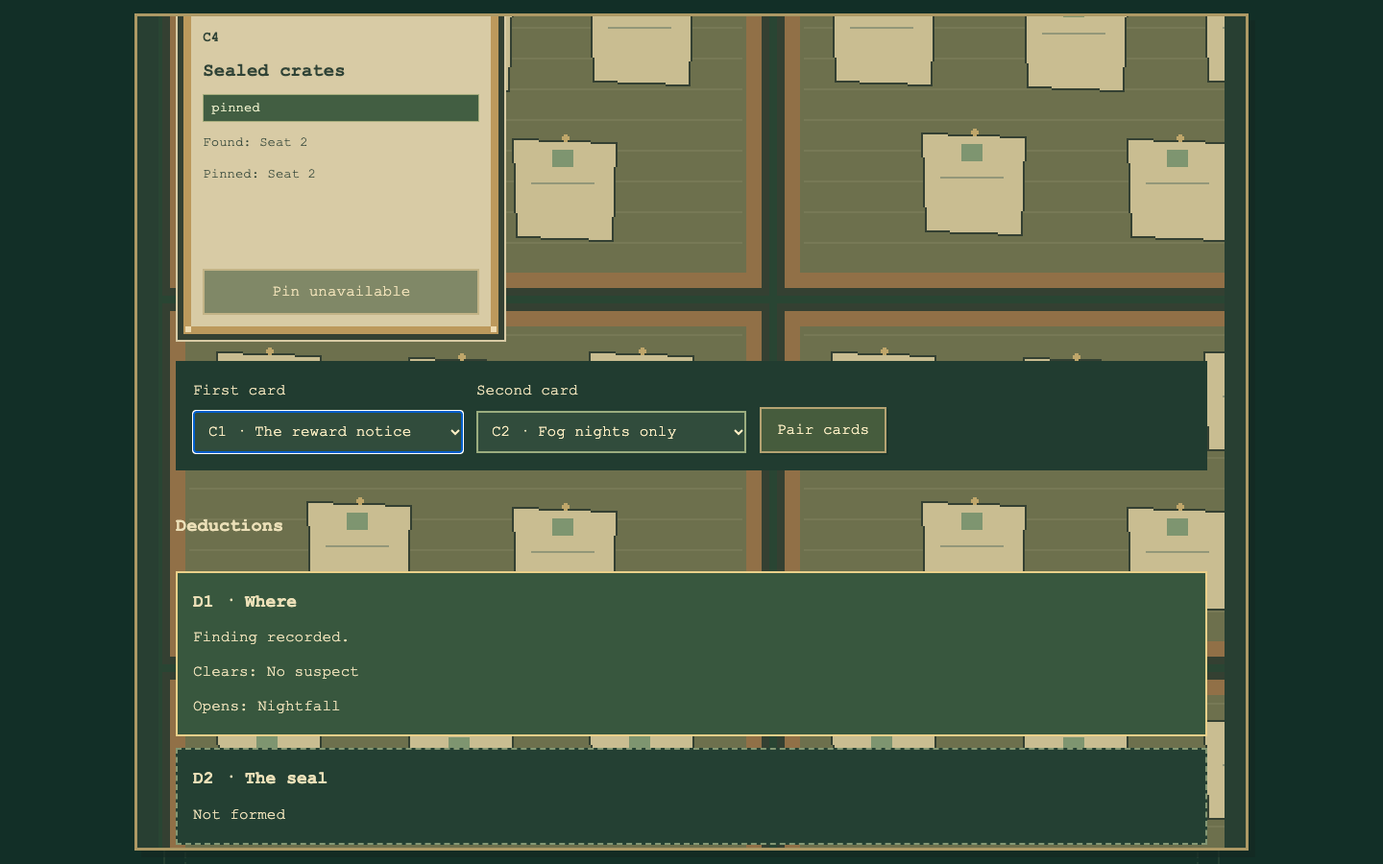
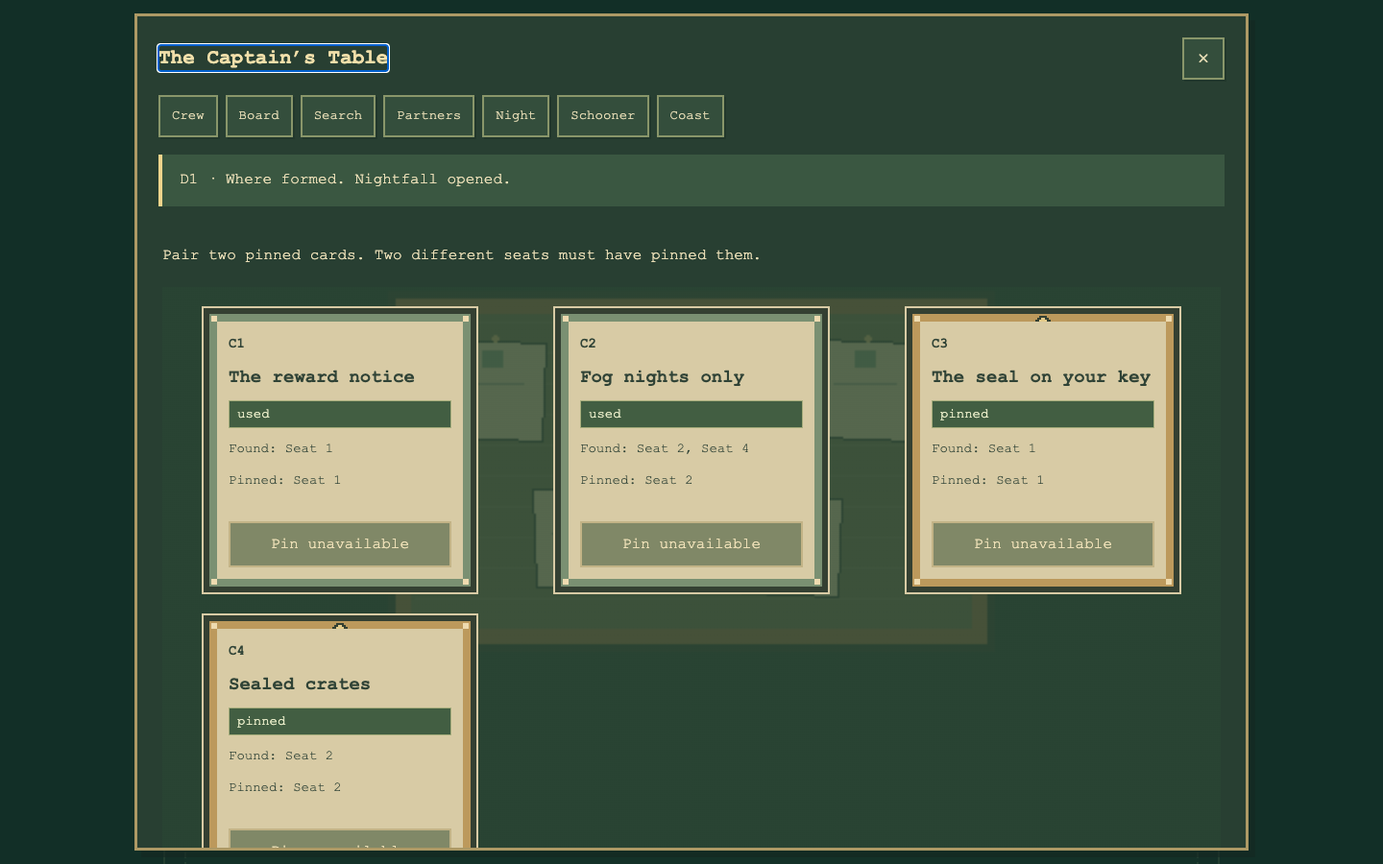
feat: draw the Relighting open coast and lantern festival

diff --git a/frontend/src/screens/screens.css b/frontend/src/screens/screens.css
@@ -5,7 +5,7 @@
 
 body:has(#case-lab){margin:0;background:#1e3c31;color:#ece0b8;overflow:auto}.case-lab{font-family:'Courier New',monospace}
 
-.case-board{background:#294533 url('/pixel/captains-board.png');background-size:640px 384px;image-rendering:pixelated;padding:18px}.case-cards{display:grid;grid-template-columns:repeat(auto-fit,minmax(288px,1fr));justify-items:center;gap:20px;margin:20px 0}.case-clue{width:288px;max-width:100%;min-height:300px;background:#d8cba5;color:#304336;border:16px solid transparent;border-image-slice:8;border-image-width:16px;border-image-repeat:repeat;padding:12px;display:flex;flex-direction:column;gap:10px;image-rendering:pixelated}.case-clue h3{font-size:19px;line-height:1.4;margin:0}.case-clue p{font-size:15px;line-height:1.6;margin:0}.case-clue .case-card-credit{font-size:14px}.case-clue .kit-button{margin-top:auto}.case-card-id{font-size:14px;font-weight:bold}.case-pair-controls{display:flex;flex-wrap:wrap;gap:14px;align-items:end;background:#213c30;padding:18px}.case-pair-controls select{max-width:300px}.case-deductions{display:grid;gap:12px;margin-top:24px}.case-deduction{padding:16px;border:2px dashed #839773;background:#244033}.case-deduction[data-complete=true]{border-style:solid;border-color:#ead08a;background:#38573e}.case-deduction h4{font-size:18px;margin:0}.case-deduction p{font-size:16px;line-height:1.6;margin:10px 0 0}.case-suspects ul{list-style:none;padding:0;display:grid;gap:12px}.case-suspects li{display:flex;justify-content:space-between;gap:12px;padding:12px;border:2px solid #80966f;background:#233e31}.case-suspects .kit-badge{flex-shrink:0}.case-suspects [data-cleared=true]{border-style:dashed}.case-empty{font-size:17px;line-height:1.7;padding:24px;background:#21392d}.case-pair-wait{font-size:15px}@media(max-width:600px){.case-board{padding:10px}.case-cards{grid-template-columns:1fr}.case-pair-controls{padding:12px}.case-pair-controls .case-field{width:100%}.case-pair-controls select{max-width:100%;width:100%}.case-suspects li{flex-direction:column}.case-suspects .kit-badge{align-self:start}}
+.case-board{padding:4px}.case-cards{background:linear-gradient(#294533b8,#294533b8),url('/pixel/captains-board.png') center top/640px 384px no-repeat;padding:20px 12px}.case-cards{display:grid;grid-template-columns:repeat(auto-fit,minmax(288px,1fr));justify-items:center;gap:20px;margin:20px 0}.case-clue{width:288px;max-width:100%;min-height:300px;background:#d8cba5;color:#304336;border:16px solid transparent;border-image-slice:8;border-image-width:16px;border-image-repeat:repeat;padding:12px;display:flex;flex-direction:column;gap:10px;image-rendering:pixelated}.case-clue h3{font-size:19px;line-height:1.4;margin:0}.case-clue p{font-size:15px;line-height:1.6;margin:0}.case-clue .case-card-credit{font-size:14px}.case-clue .kit-button{margin-top:auto}.case-card-id{font-size:14px;font-weight:bold}.case-pair-controls{display:flex;flex-wrap:wrap;gap:14px;align-items:end;background:#213c30;padding:18px}.case-pair-controls select{max-width:300px}.case-deductions{display:grid;gap:12px;margin-top:24px}.case-deduction{padding:16px;border:2px dashed #839773;background:#244033}.case-deduction[data-complete=true]{border-style:solid;border-color:#ead08a;background:#38573e}.case-deduction h4{font-size:18px;margin:0}.case-deduction p{font-size:16px;line-height:1.6;margin:10px 0 0}.case-suspects ul{list-style:none;padding:0;display:grid;gap:12px}.case-suspects li{display:flex;justify-content:space-between;gap:12px;padding:12px;border:2px solid #80966f;background:#233e31}.case-suspects .kit-badge{flex-shrink:0}.case-suspects [data-cleared=true]{border-style:dashed}.case-empty{font-size:17px;line-height:1.7;padding:24px;background:#21392d}.case-pair-wait{font-size:15px}@media(max-width:600px){.case-board{padding:10px}.case-cards{grid-template-columns:1fr}.case-pair-controls{padding:12px}.case-pair-controls .case-field{width:100%}.case-pair-controls select{max-width:100%;width:100%}.case-suspects li{flex-direction:column}.case-suspects .kit-badge{align-self:start}}
 
 .case-search-routes,.case-search-jobs,.case-partners{display:grid;gap:16px}.case-route,.case-job,.case-partner{padding:18px;border:2px solid #8da474;background:#284736}.case-route h4,.case-partner h3{font-size:19px;margin:0 0 10px}.case-route p{margin:8px 0 14px}.case-clock{font-size:16px;color:#e9d295}.case-job-report,.partner-report{font-size:16px;line-height:1.6}.partner-order-controls{display:flex;flex-wrap:wrap;align-items:end;gap:14px}.partner-order-controls select{max-width:300px}.partner-track{height:76px;max-width:240px;border-bottom:3px dashed #8da474;margin:12px 0 20px}.partner-walker{width:48px;height:64px;image-rendering:pixelated;display:block}.partner-status{font-size:16px;color:#e8d195}@media(max-width:600px){.case-route,.case-partner,.case-job{padding:14px}.partner-order-controls>*{width:100%}.partner-order-controls select{max-width:100%;width:100%}}
 .case-lights{display:grid;grid-template-columns:repeat(2,minmax(0,1fr));gap:18px;margin-top:22px}.case-light{border:2px solid #8d9678;padding:16px;background:#263f31}.case-light h3{font-size:19px;margin-top:0}.case-light button{width:100%;margin:6px 0}.case-compass{display:block;width:192px;height:192px;image-rendering:pixelated;margin:14px auto}.case-bearing-input{display:grid;gap:8px;font-size:16px}.case-bearing-input input{width:100%;min-height:44px;accent-color:var(--kit-gold,#f3d58c)}.case-bearing-input output{font-size:24px;font-weight:bold;text-align:center}.case-bearing-chart{margin:22px 0}.case-bearing-chart canvas{display:block;width:448px;height:256px;image-rendering:pixelated;max-width:none}.case-bearing-chart figcaption{font-size:16px;margin-top:10px}.case-night-clock{font-size:20px;font-weight:bold;font-variant-numeric:tabular-nums}.case-post-status{min-height:48px}.case-night-status{font-size:17px}
@@ -13,3 +13,5 @@ body:has(#case-lab){margin:0;background:#1e3c31;color:#ece0b8;overflow:auto}.cas
 .case-loading{position:fixed;z-index:1000;left:50%;top:24px;transform:translateX(-50%);max-width:calc(100vw - 32px);padding:16px;background:#263f31;color:#fff2c9;border:2px solid #f3d58c;font:16px/1.5 Courier New,monospace}.case-loading[hidden]{display:none}
 .case-wheel-scene{display:flex;align-items:flex-end;justify-content:center;gap:24px;margin:20px 0}.case-wheel-scene img{image-rendering:pixelated;object-fit:contain}.case-evidence{display:grid;grid-template-columns:repeat(3,minmax(0,1fr));gap:16px}.case-evidence article{border:2px solid #8d9678;padding:14px}.case-evidence h3{font-size:18px}.case-reveal-line{font-size:18px;line-height:1.7;padding:22px;border-left:4px solid #f3d58c;background:#20392d}.case-cited-cards{list-style:none;padding:0;display:grid;grid-template-columns:repeat(2,minmax(0,1fr));gap:8px}.case-cited-cards li{padding:12px;border:2px solid #6e8063;font-size:16px}.case-cited-cards .is-cited{color:#20392d;background:#f3d58c;border-color:#fff2c9;font-weight:bold}
 @media(max-width:700px){.case-evidence,.case-cited-cards{grid-template-columns:1fr}.case-wheel-scene{gap:8px}.case-wheel-scene img:first-child{width:128px;height:112px}.case-wheel-scene img:last-child{width:48px;height:64px}}
+.case-wall-art{display:block;image-rendering:pixelated;margin:20px 0;width:256px;height:192px}.case-wall-names{font-size:18px;line-height:1.8}.case-lantern-colours{display:flex;gap:12px;flex-wrap:wrap}
+.case-modal *{box-sizing:border-box}.case-modal select,.case-modal input{min-width:0}.case-screen-body{min-width:0}.case-clue{overflow-wrap:anywhere}

diff --git a/frontend/src/screens/controller.js b/frontend/src/screens/controller.js
@@ -11,13 +11,13 @@ export function createCaseScreens(ctx) {
   let active=false,disposed=false,current='crew',view=ctx.adapter.read(),revision=-1,arrivalRevision=-1,openRequest=0,busy=false;
   const screens=new Map(),arrival=createArrivalScreen({navigate:open});
   screens.set('crew',createCrewScreen({send,navigate:open}));
-  async function screen(name){if(['accusation','reveal'].includes(name)){if(!screens.has(name)){const module=name==='reveal'?await import('./reveal.js'):await import('./accusation.js');screens.set(name,(module.createRevealScreen??module.createAccusationScreen)({send,navigate:open}));}return screens.get(name);}if(name==='finale'){if(!screens.has(name)){const {createFinaleScreen}=await import('./finale.js');screens.set(name,createFinaleScreen({send,navigate:open}));}return screens.get(name);}if(name==='arrival')return arrival;if(screens.has(name))return screens.get(name);if(['search','partners'].includes(name)){const module=name==='search'?await import('./search.js'):await import('./partners.js');const view=(module.createSearchScreen??module.createPartnersScreen)({send});screens.set(name,view);return view;}if(name==='board'){const {createBoardScreen}=await import('./board.js');const board=createBoardScreen({send});screens.set(name,board);return board;}const unavailable={element:node('p','','This case screen is being prepared.'),update(){},tick(){},dispose(){this.element.remove();}};screens.set(name,unavailable);return unavailable;}
+  async function screen(name){if(name==='relighting'){if(!screens.has(name)){const {createRelightingScreen}=await import('./relighting.js');screens.set(name,createRelightingScreen({send}));}return screens.get(name);}if(['accusation','reveal'].includes(name)){if(!screens.has(name)){const module=name==='reveal'?await import('./reveal.js'):await import('./accusation.js');screens.set(name,(module.createRevealScreen??module.createAccusationScreen)({send,navigate:open}));}return screens.get(name);}if(name==='finale'){if(!screens.has(name)){const {createFinaleScreen}=await import('./finale.js');screens.set(name,createFinaleScreen({send,navigate:open}));}return screens.get(name);}if(name==='arrival')return arrival;if(screens.has(name))return screens.get(name);if(['search','partners'].includes(name)){const module=name==='search'?await import('./search.js'):await import('./partners.js');const view=(module.createSearchScreen??module.createPartnersScreen)({send});screens.set(name,view);return view;}if(name==='board'){const {createBoardScreen}=await import('./board.js');const board=createBoardScreen({send});screens.set(name,board);return board;}const unavailable={element:node('p','','This case screen is being prepared.'),update(){},tick(){},dispose(){this.element.remove();}};screens.set(name,unavailable);return unavailable;}
   function update(event){view=event?.view??ctx.adapter.read();if(view.revision!==arrivalRevision){arrivalRevision=view.revision;arrival.update(view);}ctx.onView?.(view);notice.textContent=view.notice?.message??'';notice.hidden=!notice.textContent;
     if(active&&view.revision!==revision){revision=view.revision;screens.get(current)?.update(view);}screens.get(current)?.tick?.(view);}
   async function send(name,...args){if(busy)return;busy=true;try{const result=await ctx.adapter[name](...args);if(disposed)return result;update({view:result.view});return result;}catch{notice.hidden=false;notice.textContent='The case service could not answer. Your screen is unchanged. Please try again.';}finally{busy=false;}}
   async function open(name='crew',params={}){const token=++openRequest;if(name==='search'&&params.spot)await send('inspectSpot',params.spot);if(disposed||token!==openRequest)return;current=name;const selected=await screen(name);if(disposed||token!==openRequest)return;active=true;ctx.resetInput?.();modal.setTitle(titles[name]??'Case');
     nav.replaceChildren(...['crew','board','search','partners','finale','accusation','relighting'].map(id=>button(({crew:'Crew',board:'Board',search:'Search',partners:'Partners',finale:'Night',accusation:'Schooner',relighting:'Coast'})[id],()=>open(id),{quiet:true,focus:`case-nav-${id}`})));
-    content.replaceChildren(selected.element);revision=view.revision;selected.update(view);modal.open(ctx.container);content.querySelector('button:not(:disabled),input,select')?.focus();}
+    content.replaceChildren(selected.element);revision=view.revision;selected.update(view);modal.open(ctx.container);const heading=modal.element.querySelector('h2');heading.tabIndex=-1;heading.focus({preventScroll:true});modal.element.scrollTop=0;}
   function close(){openRequest++;active=false;ctx.resetInput?.();modal.close();}
   const stop=ctx.adapter.subscribe(update);update();
   return {get active(){return active;},get screenName(){return current;},get view(){return view;},open,close,send,arrival:arrival.element,

diff --git a/frontend/src/game.js b/frontend/src/game.js
@@ -43,9 +43,9 @@ export async function startGame({container,shell,audio,captions,caseAdapter}) {
   const water = createWater(scene), sky = createSky(scene), weather = createWeather(scene);
   const character = createCharacter(art, { reducedMotion }); scene.add(character.sprite);
   const controller = createController(character, input, []), view = createCamera(input);
-  let active = false, disposed=false, hud, chart, cinematics, demo, intro, caseUi, fpsFrames = 0, fpsStart = performance.now(), fps = 0;
+  let active = false, disposed=false, hud, chart, cinematics, demo, intro, caseUi, fpsFrames = 0, fpsStart = performance.now(), fps = 0,caseWorld=null,festival=null,festivalPending=null;
   const sailing = createSailing(container, reducedMotion, () => settings.quality === 'low');
-  const world = createWorld({ emit, isBlocked:()=>!!(shell?.blocked || cinematics?.active || intro?.active || caseUi?.active), disposeVisuals(){cinematics?.dispose();intro?.dispose();demo?.dispose();caseUi?.dispose();}, transition: (id, options) => sailing.start(id, options),
+  const world = createWorld({ emit, isBlocked:()=>!!(shell?.blocked || cinematics?.active || intro?.active || caseUi?.active), disposeVisuals(){cinematics?.dispose();intro?.dispose();demo?.dispose();caseUi?.dispose();festival?.dispose();}, transition: (id, options) => sailing.start(id, options),
     cancelTransition: sailing.end, finishTransition() { sailing.end(); graphics.renderer.domElement.focus(); }, createPlace: id => createPlace({ id, canvas: graphics.renderer.domElement, camera: view.camera,
       isActive: () => active && !demo?.active && !world.busy && !chart.open }), attach(place) { scene.add(place.group); controller.setPlace(place); view.setPlace(place.id, controller.player.position); } });
   async function travel(id, options) {
@@ -61,7 +61,7 @@ export async function startGame({container,shell,audio,captions,caseAdapter}) {
     start() { active = true; view.start(reducedMotion()); },
     focus() { graphics.renderer.domElement.focus({ preventScroll: true }); }, settings(){shell?.openSettings();},caseScreen:name=>caseUi?.open(name),quality(name){setUserQuality(name);}, chart() { if (active) chart.show(); },
   });
-  caseUi=createCaseBridge({container,adapter:caseAdapter,world,resetInput:input.reset,focus:()=>graphics.renderer.domElement.focus(),beforeOpen:()=>intro.close(),hasOtherOverlay:()=>intro.active||cinematics.active,onView:view=>hud.setCaptain(view),onArrival:node=>intro.setArrival(node)});
+  caseUi=createCaseBridge({container,adapter:caseAdapter,world,resetInput:input.reset,focus:()=>graphics.renderer.domElement.focus(),beforeOpen:()=>intro.close(),hasOtherOverlay:()=>intro.active||cinematics.active,onView:view=>{hud.setCaptain(view);caseWorld=view.world;world.setRelightingComplete(view.world.lightsOn===true);if(view.world.festivalRemaining>0&&!festival&&!festivalPending){festivalPending=import('./world/festival.js').then(module=>{if(!disposed){festival=module.createFestival(scene);captions.show('Lantern festival · lights across the coast');}}).catch(()=>{}).finally(()=>{festivalPending=null;});}},onArrival:node=>intro.setArrival(node)});
   const stopListening = on('interact', event => {hud.notify(event.id);if(!intro.active)caseUi.interact(event);});
   const stopPlots = on('plot_clicked', event => hud.notify(event.plot));
   const stopArrivals = on('arrived', event => hud.arrive(event.place));
@@ -97,7 +97,8 @@ export async function startGame({container,shell,audio,captions,caseAdapter}) {
     const night = sky.update(settings.hour, state);
     audio.update(delta,{weather:state,speed,night,active:active&&!world.busy&&!chart.open,place:world.current?.id});
     water.update(reducedMotion()?0:time, state); sailing.update(delta); cinematics.update(delta);
-    world.update(delta, { player: controller.player.position, time:reducedMotion()?0:time, night, weather: state });
+    festival?.update(reducedMotion()?0:time,{active:(caseWorld?.festivalRemaining??0)>0,night,reducedMotion:reducedMotion(),quality:settings.quality,player:controller.player.position});
+    world.update(delta, { player: controller.player.position, time:reducedMotion()?0:time, night, weather: state,relit:world.relit,festival:(caseWorld?.festivalRemaining??0)>0 });
     view.update(delta, controller.player.position);
     const zone = active && !demo?.active && !world.busy && !chart.open ? findZone(controller.player.position, world.current?.zones ?? []) : null;
     touch.update(zone,active&&!demo.active&&!world.busy&&!chart.open);

diff --git a/frontend/src/world/places/settlement.js b/frontend/src/world/places/settlement.js
@@ -10,19 +10,20 @@ import { placeGround } from './surfaces.js';
 import { backdrop, createLifetime, loadBackdrop } from './resources.js';
 
 export async function createSettlement(ctx) {
-  const { id } = ctx, data = places[id], placements = layouts[id] ?? [];
+  const { id } = ctx, data = places[id], placements = [...(layouts[id] ?? []),...(ctx.placements??[])];
   const trees = edgeTrees[id] ?? [];
   const ids = [...new Set([...placements.map(p => p.asset), 'oak', 'pine', 'birch', 'rock', 'flowers', 'grass-tuft',
-    ...(id === 'saltreach_harbor' ? ['harbour-office-glow'] : []), ...(id === 'home_islet' ? ['build-plot'] : [])])];
+    ...(id === 'saltreach_harbor' ? ['harbour-office-glow','wall-of-lights-open','festival-lantern-string'] : []),...(id==='the_teeth'?['false-light']:[]), ...(id === 'home_islet' ? ['build-plot'] : [])])];
   const art = await (ctx.loadArt ?? loadArt)(ids), group = new THREE.Group(); group.name = `place:${id}`;
   const frameState = createFrameState(ctx, data.spawn);
   const cleanups = [], dispose = createLifetime(group, art, cleanups);
   try {
     backdrop(group, await (ctx.loadBackdrop ?? loadBackdrop)(`places/${id}.png`));
+    const fogMeshes=[];
     placements.forEach(item => {
       const mesh = placeArt(group, art, item.asset, item.x, item.z);
       if (item.asset === 'ferry-pier') mesh.renderOrder = 6;
-      if (item.asset === 'fog-bank') mesh.renderOrder = 920;
+      if (item.asset === 'fog-bank'){mesh.renderOrder = 920;fogMeshes.push(mesh);}
     });
     const foliage = trees.map(([x, z], i) => {
       const mesh = placeArt(group, art, ['oak', 'pine', 'birch'][i % 3], x, z);
@@ -36,8 +37,10 @@ export async function createSettlement(ctx) {
       const { x, y } = light.beamOrigin;
       return { glow: paintedBlob(group, x, y, .6, .38, '#f3d58c', 925, 0), beam: createBeam(group, x, y) };
     });
-    let windowGlow;
+    let windowGlow,wall,festive,teaser;
+    if(id==='the_teeth'){teaser=placeArt(group,art,'false-light',10,-10);teaser.visible=false;teaser.renderOrder=921;}
     if (id === 'saltreach_harbor') {
+      wall=placeArt(group,art,'wall-of-lights-open',12,5.3);wall.visible=false;festive=placeArt(group,art,'festival-lantern-string',-1,7);festive.visible=false;
       windowGlow = placeArt(group, art, 'harbour-office-glow', -8, 8.5);
       windowGlow.material = windowGlow.material.clone(); windowGlow.renderOrder = 922;
     }
@@ -50,7 +53,8 @@ export async function createSettlement(ctx) {
           mesh.material.opacity = state.player.z < p.z && Math.abs(state.player.x - p.x) < 2.2 && p.z - state.player.z < 6 ? .3 : 1;
         });
         if (windowGlow) windowGlow.material.opacity = state.night * .95;
-        lights.forEach(light => { light.glow.material.opacity = state.night * .8; light.beam.update(state.time, state.night); });
+        const brightness=state.relit?Math.max(.65,state.night):state.night;lights.forEach(light => {light.glow.material.opacity=brightness*.8;light.beam.update(state.time,brightness);});
+        fogMeshes.forEach(mesh=>{mesh.visible=!state.relit;});if(wall)wall.visible=!!state.relit;if(festive)festive.visible=!!state.festival;if(teaser)teaser.visible=!state.relit&&state.night>.6&&state.weather.fog>.65;
       }, dispose,
     };
     ctx.decorate?.(place, art, cleanups); return place;

diff --git a/frontend/src/adapter/fake/reveal.js b/frontend/src/adapter/fake/reveal.js
@@ -18,20 +18,25 @@ export function accuse(state,id){
   if(!Object.hasOwn(suspectTitles,id))return refuse('unknown_suspect','Choose one of the four suspects.');
   const cleared=new Set(deductionData.filter(d=>state.deductions.includes(d.id)).flatMap(d=>d.clears)),remaining=Object.keys(suspectTitles).filter(id=>!cleared.has(id));
   if(remaining.length!==1||id!==remaining[0]){state.accuseWaitUntil=state.now+60;return refuse('accusation_refused','The evidence does not support that accusation. Try again in one minute.');}
-  state.solved=true;state.revealIndex=0;return accept('The reveal is ready.');
+  state.solved=true;state.revealIndex=0;state.worldRelit=true;state.festivalUntil=state.now+172800;state.wall=[{name:state.captainName,order:1}];return accept('The reveal is ready.');
 }
-export function revealLines(state){return [
-  ...deductionData.filter(d=>['D2','D3','D4'].includes(d.id)).map(d=>({id:d.id,kind:'evidence',title:d.title,text:revealPlaceholder,cites:d.cards})),
-  {id:'kit',kind:'closing',title:'Your closing line',text:revealPlaceholder,cites:[]},
-  ...(state.profile?.readLog?[{id:'log',kind:'log',title:'The log reader',text:revealPlaceholder,cites:[]}]:[]),
-  {id:'last',kind:'last',title:'The last beat',text:revealPlaceholder,cites:[]},
-];}
+export function revealLines(state){
+  const kitCites={true_keeper:['C7','C8'],witness:['C8'],informant:['C3','C4'],stranger:['C5','C6']};
+  return [
+    {id:'unmask',kind:'unmasking',title:'The mask falls',cites:['C1','C7']},
+    {id:'twist',kind:'twist',title:'The turn',cites:['C1','C7','C8']},
+    ...[['C1'],['C3','C4','C6'],['C7'],['C8']].map((cites,i)=>({id:`how_${i+1}`,kind:'evidence',title:'The evidence',cites})),
+    {id:'kit',kind:'closing',title:'Your closing line',cites:kitCites[state.profile?.kitId]??[]},
+    ...(state.profile?.readLog?[{id:'log',kind:'log',title:'The log reader',cites:['C8']}]:[]),
+    {id:'last',kind:'last',title:'The last beat',cites:['C5']},
+  ].map(line=>({...line,text:revealPlaceholder}));
+}
 export function revealView(state){const lines=state.solved?revealLines(state):[];return {available:state.solved,index:state.revealIndex,total:lines.length,line:lines[state.revealIndex]??null,done:state.solved&&state.revealIndex>=lines.length,canAdvance:state.solved&&state.revealIndex<lines.length,cards:Object.entries(cardTitles).map(([id,title])=>({id,title})),lines};}
 export function nextReveal(state){
   if(!state.solved)return refuse('reveal_unavailable','Only an accepted accusation opens the reveal.');
   const lines=revealLines(state);if(state.revealIndex>=lines.length)return refuse('reveal_complete','The reveal has ended.');
   if(state.revealIndex===0)effect(state,'unmask'); // Anonymous unless a future authorised adapter supplies art.
   state.revealIndex++;
-  if(state.revealIndex===lines.length){state.worldRelit=true;state.festivalUntil=state.now+172800;state.wall=[{name:state.captainName,order:1}];effect(state,'relighting');}
+  if(state.revealIndex===lines.length){effect(state,'relighting');}
   return accept(state.revealIndex<lines.length?'Next line.':'The coast is relit.');
 }

diff --git a/frontend/tests/case-reveal.test.js b/frontend/tests/case-reveal.test.js
@@ -3,4 +3,4 @@ import {initialCaseState} from '../src/adapter/fake/state.js';
 import {accuse,boardSchooner,nextReveal,revealView,revealPlaceholder} from '../src/adapter/fake/reveal.js';
 import {deductionData,suspectTitles} from '../src/adapter/fake/data.js';
 it('gates accusation on D2–D4 and boarding, and refuses wrong guesses without coin/pin changes',()=>{const s=initialCaseState();expect(accuse(s,'fisherman').reason).toBe('schooner_required');s.schooner=true;boardSchooner(s);expect(accuse(s,'fisherman').reason).toBe('evidence_required');s.deductions=['D2','D3','D4'];const before=structuredClone({coins:s.coins,pins:s.pins,found:s.found});expect(accuse(s,'fisherman').reason).toBe('accusation_refused');expect({coins:s.coins,pins:s.pins,found:s.found}).toEqual(before);expect(accuse(s,'fisherman').reason).toBe('accusation_cooldown');expect(s.solved).toBe(false);});
-it('accepts the one uncleared title and reveals only ordered placeholders, citing cards',()=>{const s=initialCaseState();s.schooner=true;s.aboard=true;s.deductions=['D2','D3','D4'];s.profile={readLog:true};const cleared=deductionData.flatMap(d=>d.clears),remaining=Object.keys(suspectTitles).filter(id=>!cleared.includes(id));expect(remaining).toHaveLength(1);expect(accuse(s,remaining[0]).accepted).toBe(true);let view=revealView(s);expect(view.line.cites).toEqual(['C3','C4']);expect(view.lines.every(line=>line.text===revealPlaceholder)).toBe(true);const kinds=[];while(!view.done){kinds.push(view.line.kind);nextReveal(s);view=revealView(s);}expect(kinds).toEqual(['evidence','evidence','evidence','closing','log','last']);expect(s.effects.map(e=>e.name)).toEqual(['unmask','relighting']);expect(s.effects[0].params).toEqual({});expect(s.worldRelit).toBe(true);const until=s.festivalUntil;expect(nextReveal(s).accepted).toBe(false);expect(s.festivalUntil).toBe(until);});
+it('accepts the one uncleared title and reveals only ordered placeholders, citing cards',()=>{const s=initialCaseState();s.schooner=true;s.aboard=true;s.deductions=['D2','D3','D4'];s.profile={readLog:true};const cleared=deductionData.flatMap(d=>d.clears),remaining=Object.keys(suspectTitles).filter(id=>!cleared.includes(id));expect(remaining).toHaveLength(1);expect(accuse(s,remaining[0]).accepted).toBe(true);expect(s.worldRelit).toBe(true);let view=revealView(s);expect(view.line.cites).toEqual(['C1','C7']);expect(view.lines.every(line=>line.text===revealPlaceholder)).toBe(true);const kinds=[];while(!view.done){kinds.push(view.line.kind);nextReveal(s);view=revealView(s);}expect(kinds).toEqual(['unmasking','twist','evidence','evidence','evidence','evidence','closing','log','last']);expect(s.effects.map(e=>e.name)).toEqual(['unmask','relighting']);expect(s.effects[0].params).toEqual({});expect(s.worldRelit).toBe(true);const until=s.festivalUntil;expect(nextReveal(s).accepted).toBe(false);expect(s.festivalUntil).toBe(until);});

diff --git a/frontend/src/screens/finale.js b/frontend/src/screens/finale.js
@@ -6,7 +6,7 @@ export function createFinaleScreen({send,navigate}){
   const element=node('section','case-finale'),angles=new Map();let model=null,bindings=[],lastPad=0;
   function setAngle(binding,value){const angle=Math.round(normaliseDegrees(value));angles.set(binding.id,angle);binding.range.value=angle;binding.output.textContent=`${angle}°`;drawDial(binding,angle);}
   function drawDial(binding,angle){const d=binding.canvas.getContext('2d');d.imageSmoothingEnabled=false;d.clearRect(0,0,96,96);d.fillStyle='#1e3c31';d.fillRect(0,0,96,96);d.strokeStyle='#8d9678';d.strokeRect(7,7,82,82);d.fillStyle='#eae1be';d.font='bold 10px monospace';d.fillText('N',45,15);d.fillText('E',81,52);d.fillText('S',45,88);d.fillText('W',10,52);d.strokeStyle='#f3d58c';d.lineWidth=3;d.beginPath();d.moveTo(48,48);d.lineTo(48+Math.sin(radians(angle))*32,48-Math.cos(radians(angle))*32);d.stroke();d.fillStyle='#f3d58c';d.fillRect(45,45,7,7);}
-  function drawChart(canvas,night){const d=canvas.getContext('2d');d.imageSmoothingEnabled=false;d.fillStyle='#244b48';d.fillRect(0,0,224,128);d.fillStyle='#7d9360';for(const light of night.lights){d.fillRect(Math.round(light.x/2)-5,Math.round(light.y/2)-3,10,6);}for(const [i,light] of night.lights.entries()){d.fillStyle='#f3d58c';d.font='bold 9px monospace';d.fillText(String(i+1),Math.round(light.x/2)-2,Math.round(light.y/2)-6);}if(night.glow){const x=Math.round(night.glow.x/2),y=Math.round(night.glow.y/2);d.fillStyle='#f3d58c';d.fillRect(x-1,y-4,3,9);d.fillRect(x-4,y-1,9,3);}}
+  function drawChart(canvas,night){const d=canvas.getContext('2d');d.imageSmoothingEnabled=false;d.fillStyle='#244b48';d.fillRect(0,0,224,128);d.fillStyle='#7d9360';for(const light of night.lights){d.fillRect(Math.round(light.x/2)-5,Math.round(light.y/2)-3,10,6);}for(const [i,light] of night.lights.entries()){d.fillStyle='#f3d58c';d.font='bold 14px monospace';d.fillText(String(i+1),Math.round(light.x/2)-2,Math.round(light.y/2)-6);}if(night.glow){const x=Math.round(night.glow.x/2),y=Math.round(night.glow.y/2);d.fillStyle='#f3d58c';d.fillRect(x-1,y-4,3,9);d.fillRect(x-4,y-1,9,3);}}
   return {element,update(view){model=view.finale;restoreFocus(element,()=>{bindings=[];element.replaceChildren(node('p','case-night-status',model.status),node('p','case-night-clock'));
     element.append(button('Call nightfall',()=>send('callNightfall'),{disabled:!model.canCall,focus:'nightfall'}));
     if(model.glow){const figure=node('figure','case-bearing-chart'),map=node('canvas');map.width=224;map.height=128;map.setAttribute('role','img');map.setAttribute('aria-label','Sea chart: a gold glow north of the three coastal lights. Each numbered light is listed below.');drawChart(map,model);figure.append(map,node('figcaption','','Look for the gold glow. North is up.'));element.append(figure);}

diff --git a/frontend/src/adapter/fake/index.js b/frontend/src/adapter/fake/index.js
@@ -8,14 +8,15 @@ import {orderPartner} from './partners.js';
 import {settleJobs} from './settle.js';
 import {buildLight,callNightfall,takePost,aim,settleNight} from './night.js';
 import {boardSchooner,accuse,nextReveal} from './reveal.js';
+import {claimLantern} from './relighting.js';
 import {caseView} from './view.js';
 export function createFakeCaseAdapter({timeScale=1,allowBrowse=false}={}) {
   let state=initialCaseState(),disposed=false,lastSecond=-1,notice=null;
   state.allowBrowse=allowBrowse;
-  const listeners=new Set(),handlers={completeIntro,createCrew,joinCrew,muster,pin:pinCard,pair:pairCards,search:startSearch,inspectSpot,orderPartner,buildLight,callNightfall,takePost,aim,boardSchooner,accuse,nextReveal};
+  const listeners=new Set(),handlers={completeIntro,createCrew,joinCrew,muster,pin:pinCard,pair:pairCards,search:startSearch,inspectSpot,orderPartner,buildLight,callNightfall,takePost,aim,boardSchooner,accuse,nextReveal,claimLantern};
   function read(){return copyView({...caseView(state),notice});}
   function publish(){const event={type:'case_updated',view:read()};for(const listener of listeners)listener(event);}
-  function dispatch(name,args){if(disposed)return Promise.resolve({accepted:false,reason:'disposed',message:'The rehearsal has ended.',view:read()});const result=handlers[name]?.(state,...args)??refuse('not_ready','This part of the local case is not ready yet.');settleJobs(state);settleNight(state);notice={...result};state.revision++;publish();return Promise.resolve({...result,view:read()});}
+  function dispatch(name,args){if(disposed)return Promise.resolve({accepted:false,reason:'disposed',message:'The rehearsal has ended.',view:read()});settleJobs(state);settleNight(state);const result=handlers[name]?.(state,...args)??refuse('not_ready','This part of the local case is not ready yet.');settleJobs(state);settleNight(state);notice={...result};state.revision++;publish();return Promise.resolve({...result,view:read()});}
   const adapter={read,subscribe(listener){listeners.add(listener);return()=>listeners.delete(listener);},
     tick(dt){if(disposed||state.crew?.status!=='active')return;state.now+=Math.max(0,Math.min(.1,dt))*timeScale;if(settleJobs(state)|settleNight(state)){state.revision++;notice={reason:null,message:state.lastReport};}if(Math.floor(state.now)!==lastSecond){lastSecond=Math.floor(state.now);publish();}},
     dispose(){disposed=true;listeners.clear();},

diff --git a/frontend/src/screens/relighting.js b/frontend/src/screens/relighting.js
@@ -1,0 +1,8 @@
+// Public coast state, captain names and free colour intent supplied by the adapter.
+import {node,button,restoreFocus,secondsLabel} from './helpers.js';
+export function createRelightingScreen({send}){const element=node('section','case-relighting');return {element,update(view){restoreFocus(element,()=>{const model=view.world;element.replaceChildren(node('h3','',model.stage==='relit'?'The Relighting':'The Wall of Lights'));
+  element.append(node('p','',model.stage==='relit'?'The public lights burn. Gull’s Rest is open.':'The coast is still waiting for its first light.'));
+  const image=node('img','case-wall-art');image.src=`${import.meta.env.BASE_URL}pixel/wall-of-lights-open.png`;image.width=256;image.height=192;image.alt='Four lanterns over the Wall of Lights';element.append(image);
+  const wall=node('ol','case-wall-names');wall.setAttribute('aria-label','Captains on the Wall of Lights');for(const captain of model.wall??[])wall.append(node('li','',captain.name));element.append(wall,node('p','case-festival-clock'));
+  if(model.canClaimLantern){element.append(node('h3','','A lantern for the festival'),node('p','','Choose a colour. It is free.'));const colours=node('div','case-lantern-colours');for(const colour of model.colours??[]){const control=button(`${colour.label}${model.lanternColour===colour.id?' · selected':''}`,()=>send('claimLantern',colour.id),{focus:`lantern-${colour.id}`});control.style.borderColor=colour.hex;colours.append(control);}element.append(colours);}
+ });this.tick(view);},tick(view){const clock=element.querySelector('.case-festival-clock');if(clock)clock.textContent=view.world.festivalRemaining>0?`Lantern festival · ${Math.floor(view.world.festivalRemaining/3600)}h ${secondsLabel(view.world.festivalRemaining%3600)} remaining`:'';},dispose(){element.remove();}};}

diff --git a/frontend/tests/case-night.test.js b/frontend/tests/case-night.test.js
@@ -12,3 +12,4 @@ describe('fake night authority',()=>{
  it('expires locks and clears departed partner seats; dawn keeps buildings and gives a three-minute wait',async()=>{const a=await crew();await d1(a);await a.buildLight('islet_signal_station');await a.callNightfall();await a.orderPartner(2,'man_light','keepers_lamp');a.dev.advance(600);const light=lightLocations[0];await a.aim(light.id,bearingBetween(light,rehearsalGlow));a.dev.advance(90);expect(a.read().finale.lights[0].lock).toBe(null);await a.aim(light.id,bearingBetween(light,rehearsalGlow));await a.orderPartner(2,'wait','');expect(a.read().finale.lights[0].lock).toBe(null);a.dev.advance(600);expect(a.read().finale.phase).toBe('dawn');expect(a.read().finale.dawnRemaining).toBe(180);expect(a.read().finale.lights[2].ready).toBe(true);expect((await a.callNightfall()).reason).toBe('dawn_wait');a.dev.advance(180);expect((await a.callNightfall()).accepted).toBe(true);});
  it('refuses off-target locks for five seconds, without inventing a lock',async()=>{const a=await crew();await d1(a);await a.callNightfall();await a.takePost('keepers_lamp');a.dev.advance(60);expect((await a.aim('keepers_lamp',180)).reason).toBe('off_target');expect((await a.aim('keepers_lamp',0)).reason).toBe('aim_cooldown');expect(a.read().finale.lights[0].lock).toBe(null);});
 });
+it('keeps an existing lock after a miss, and rejects a lock at the exact end of night',async()=>{const a=await crew();await d1(a);await a.callNightfall();await a.takePost('keepers_lamp');a.dev.advance(60);const light=lightLocations[0];await a.aim(light.id,bearingBetween(light,rehearsalGlow));await a.aim(light.id,180);expect(a.read().finale.lights[0].lock.remaining).toBe(90);a.dev.advance(1140);expect((await a.aim(light.id,0)).reason).toBe('night_required');});

diff --git a/frontend/scripts/check-case.js b/frontend/scripts/check-case.js
@@ -7,7 +7,7 @@ const check=(ok,label)=>{assert.ok(ok,label);report.checks.push(label);};
 try{
  await page.goto(env.url+'/case-lab.html?demo=1');await page.waitForFunction(()=>window.__caseLab);
  await page.evaluate(async()=>{const {adapter:a,screens}=window.__caseLab;await a.createCrew();await a.muster();for(const [id,seat] of [['C1',1],['C2',2],['C3',1],['C4',2]]){a.dev.give(id,seat);if(seat===1)await a.pin(id);else a.dev.pinForSeat(id,seat);}await a.pair('C1','C2');await screens.open('board');});
- await page.screenshot({path:'captures/20261105_G6-Board.png'});check(await page.locator('.case-card').count()===4,'Board displays four held cards and seat credits');
+ await page.screenshot({path:'captures/20261105_G6-Board.png'});check(await page.locator('.case-clue').count()===4,'Board displays four held cards and seat credits');
  await page.evaluate(()=>window.__caseLab.screens.open('search',{spot:'ferry_pier'}));check(await page.getByRole('button',{name:'Pay 150 coins · Start search'}).count()===1,'Paid shortcut is separately priced');await page.screenshot({path:'captures/20261105_G6-Search.png'});
  await page.evaluate(async()=>{const {adapter:a,screens}=window.__caseLab;await a.buildLight('islet_signal_station');await a.callNightfall();await a.orderPartner(2,'man_light','keepers_lamp');await a.orderPartner(3,'man_light','harbor_light');await a.takePost('islet_signal_station');a.dev.advance(600);await screens.open('finale');});await page.screenshot({path:'captures/20261105_G6-Night.png'});
  check(await page.locator('.case-bearing-input input').count()===4,'Every beam has an accessible native slider');

diff --git a/frontend/src/world/festival.js b/frontend/src/world/festival.js
@@ -1,0 +1,16 @@
+// A small native-pixel firework display. Created on demand; owns and releases every allocation.
+import * as THREE from 'three';
+import {createLifetime} from './places/resources.js';
+export function createFestival(scene){
+  const group=new THREE.Group();group.name='festival-effects';scene.add(group);
+  const positions=new Float32Array(48*3),geometry=new THREE.BufferGeometry();geometry.setAttribute('position',new THREE.BufferAttribute(positions,3));
+  const material=new THREE.PointsMaterial({color:'#f3d58c',size:2,sizeAttenuation:false,depthTest:false,depthWrite:false,transparent:true,toneMapped:false});
+  const points=new THREE.Points(geometry,material);points.renderOrder=945;points.frustumCulled=false;group.add(points);
+  const dispose=createLifetime(group);
+  return {update(time,{active,night,reducedMotion,quality,player}){
+    group.visible=!!active&&night>.6&&!reducedMotion;if(!group.visible)return;
+    const phase=(time%5)/5,cycle=Math.floor(time/5),x=player.x+((cycle%3)-1)*8,y=-player.z*.72+13+(cycle%2)*3;
+    const count=quality==='low'?24:48;geometry.setDrawRange(0,count);
+    for(let i=0;i<count;i++){const angle=i*Math.PI*2/count,radius=phase*8;positions.set([Math.round((x+Math.sin(angle)*radius)*16)/16,Math.round((y+Math.cos(angle)*radius-phase*phase*5)*16)/16,0],i*3);}geometry.attributes.position.needsUpdate=true;material.opacity=Math.max(0,1-phase);material.color.set(['#f3d58c','#a9d5be','#e9ac94'][cycle%3]);
+  },dispose};
+}
